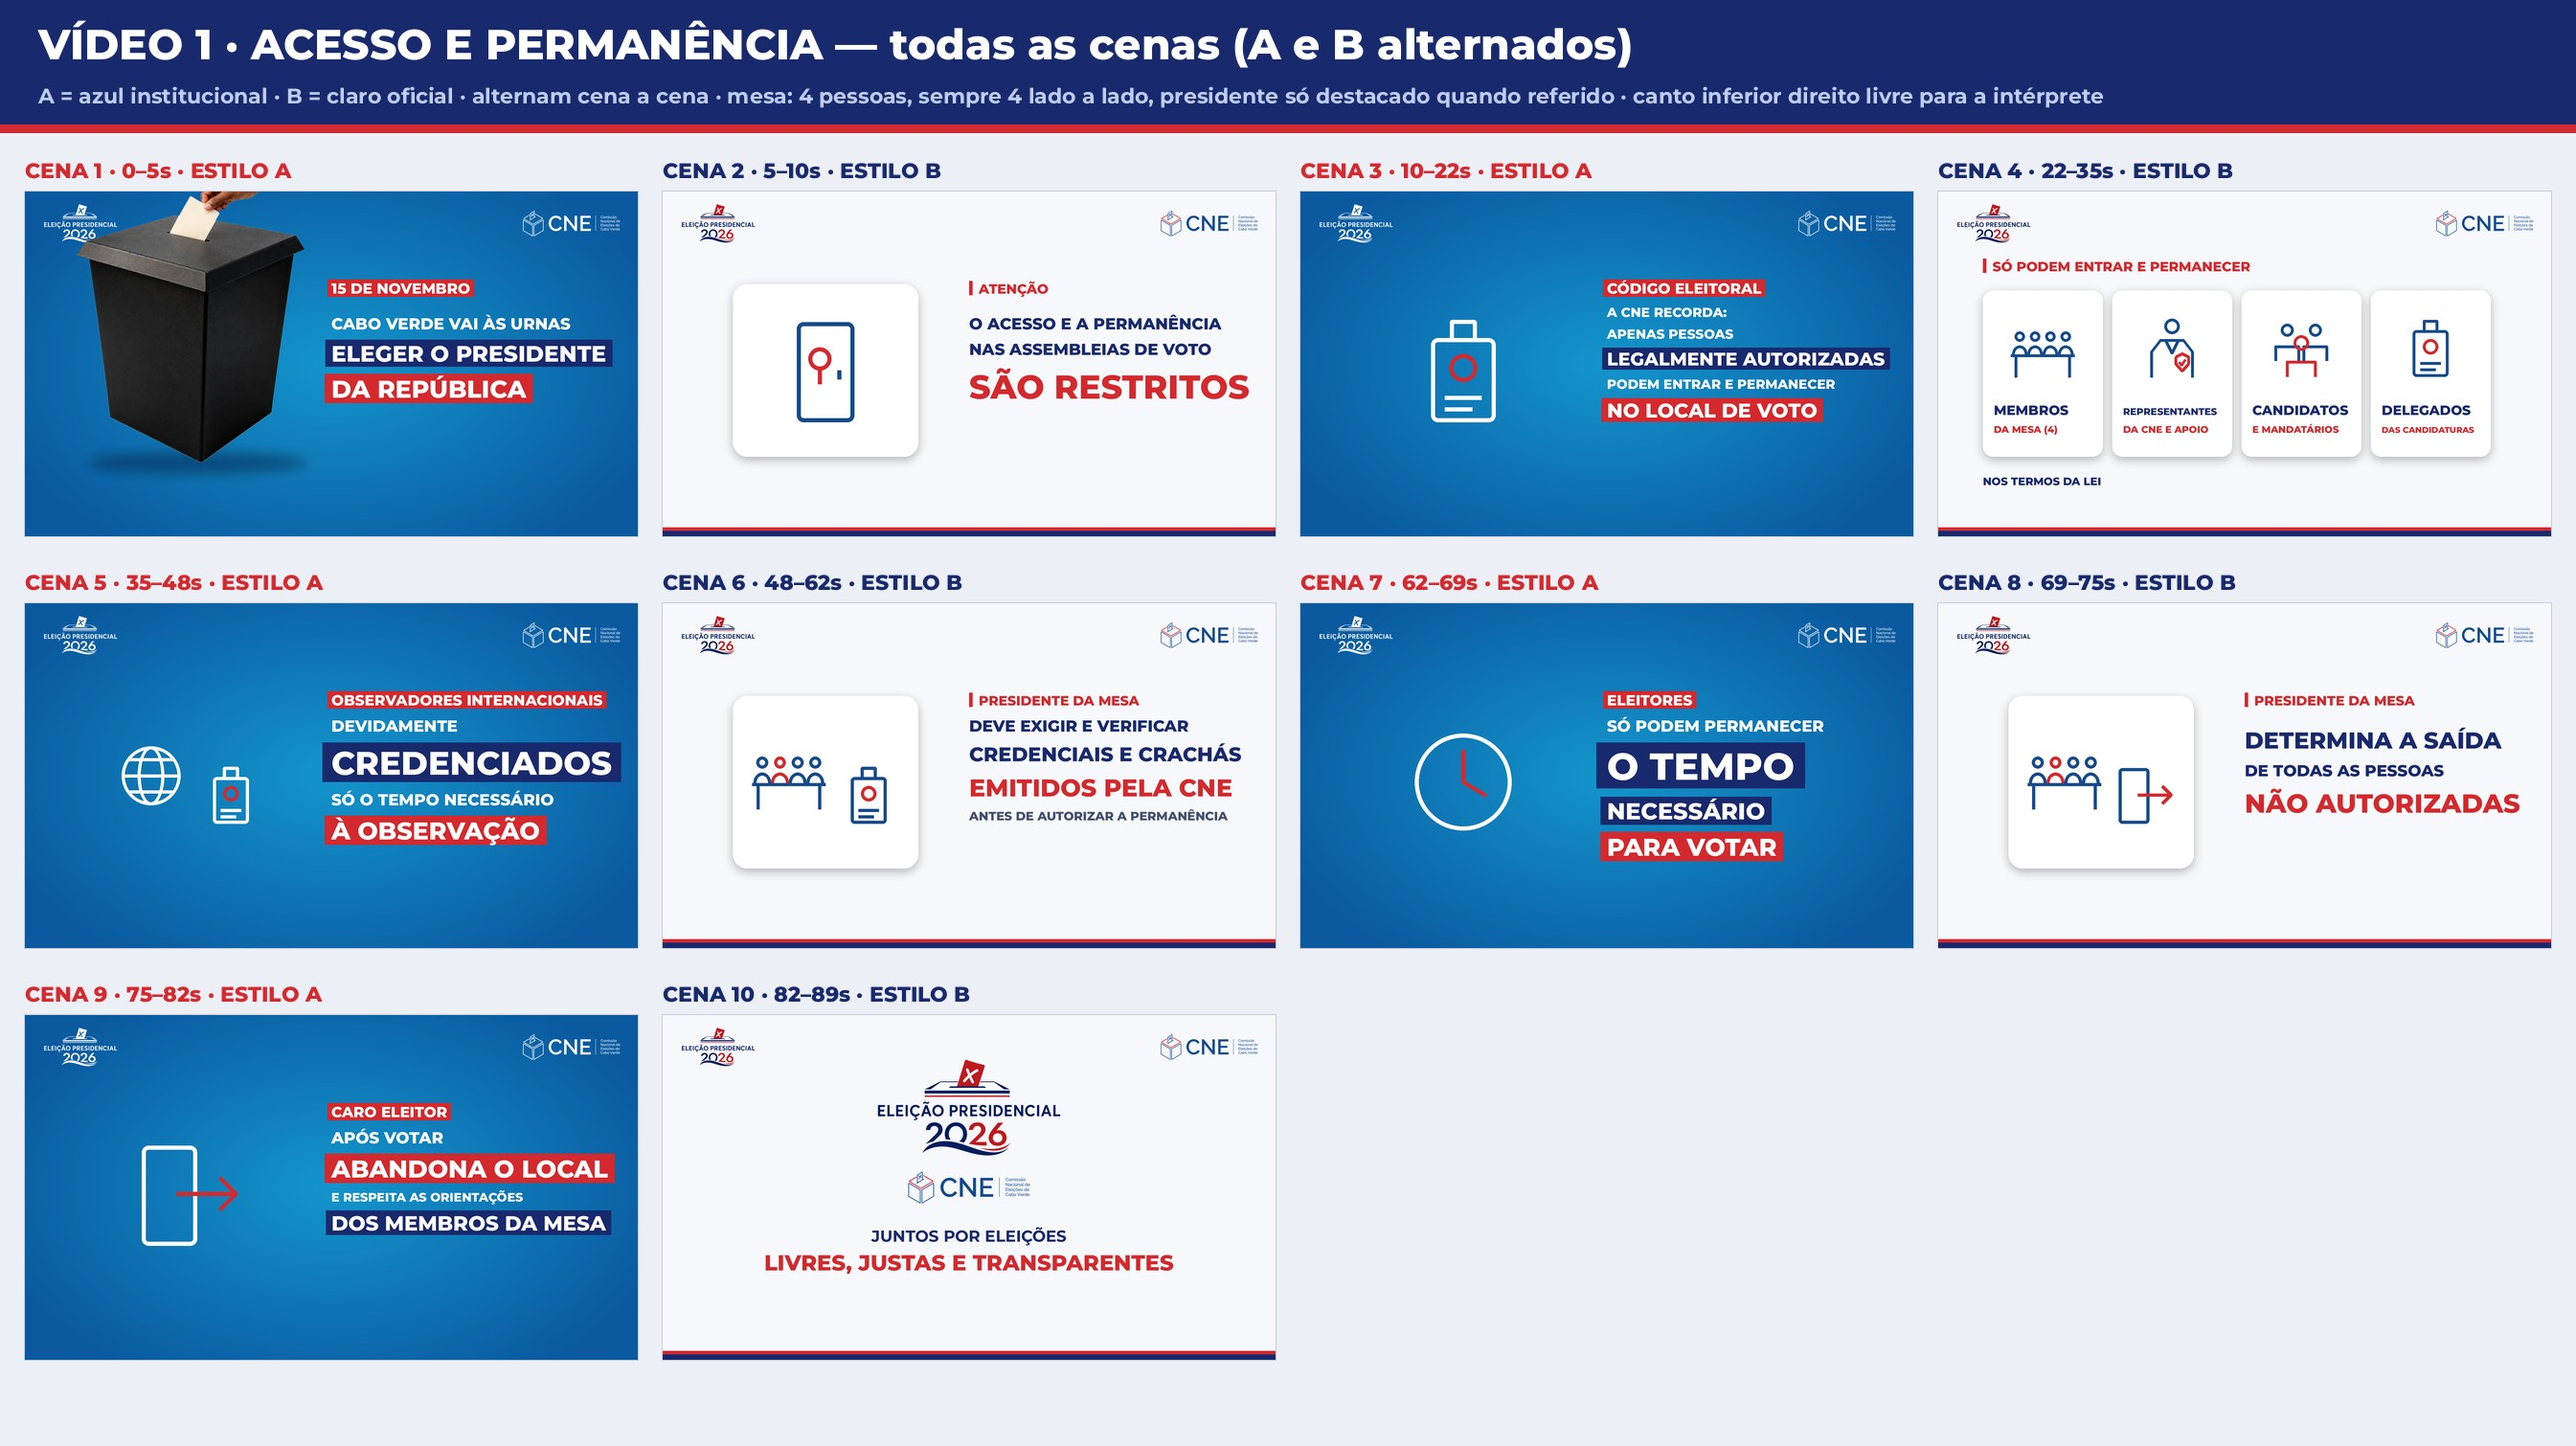
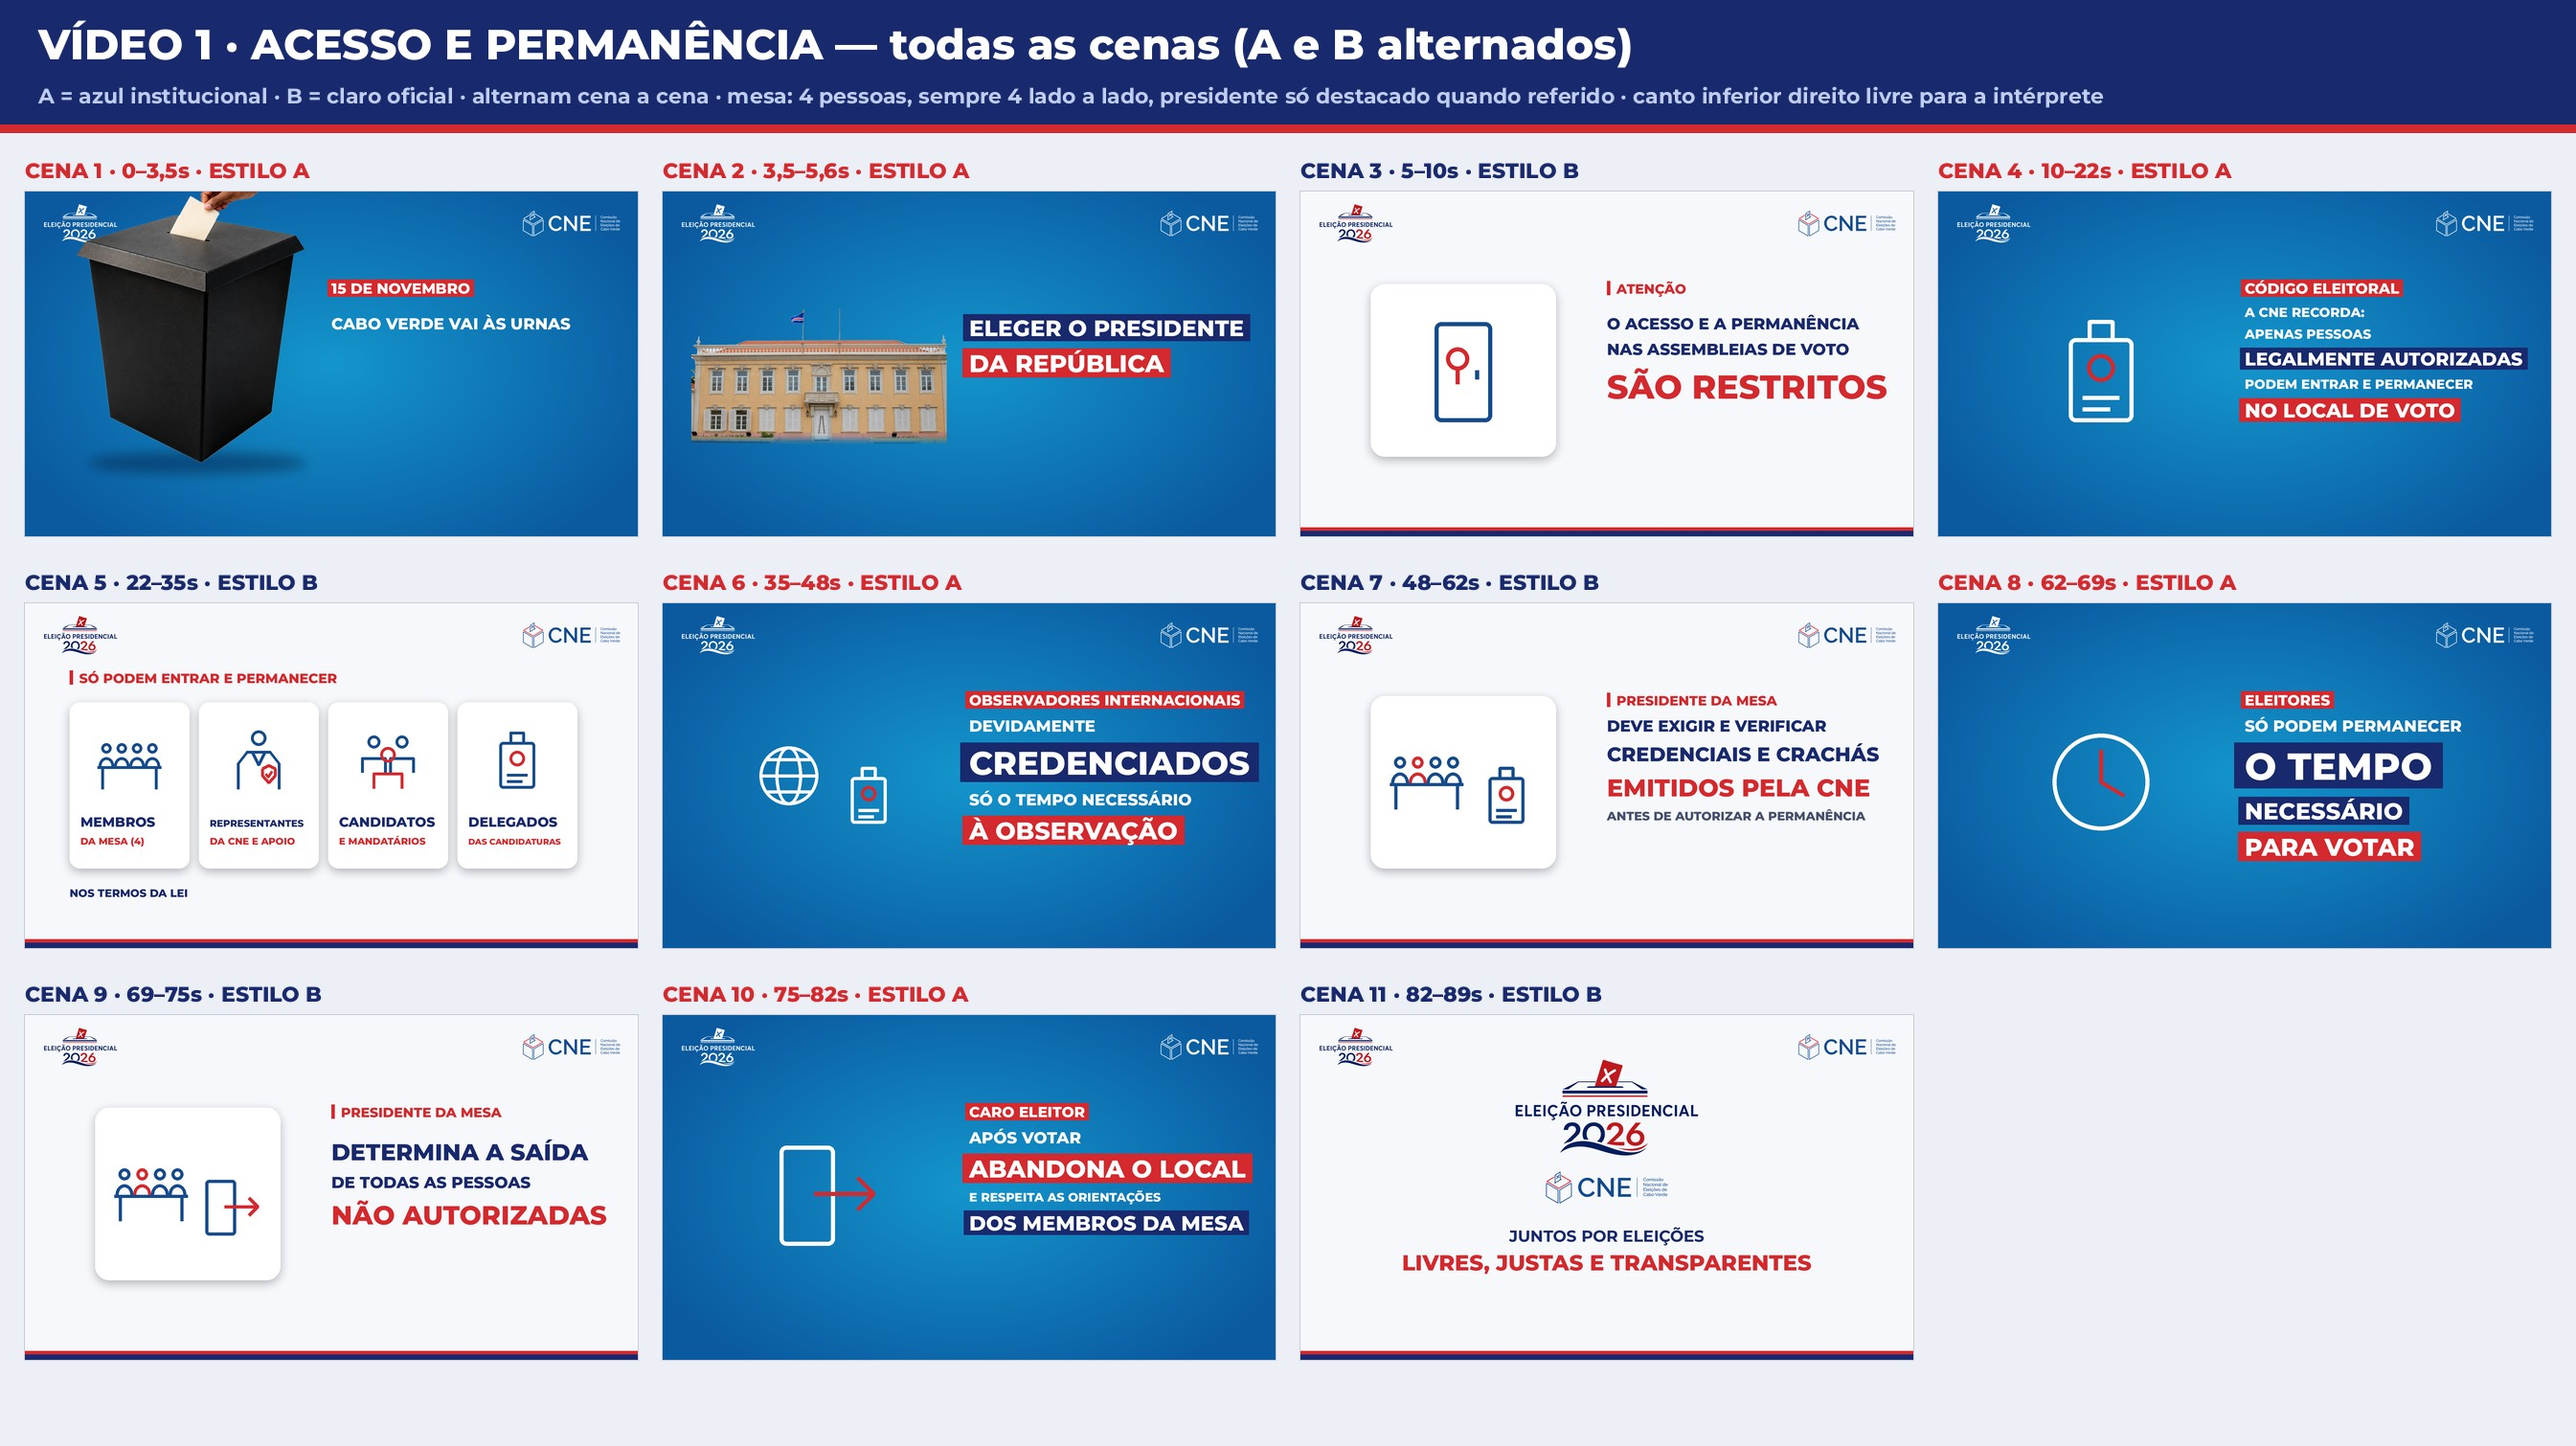
Cena 1 dividida: urna (Cabo Verde vai às urnas) + Palácio do Plateau (eleger o Presidente)
Claude-Session: https://claude.ai/code/session_01B7qCVcC1uXVL2xuSSAUW2M

diff --git a/comunicado_regras/novos_src/bp_v1all.py b/comunicado_regras/novos_src/bp_v1all.py
@@ -32,7 +32,8 @@ def icon(b,kind,cx,cy,s,col,acc=RED,w=None):
         ln((4,74),(4,74)); return
     _icon(b,kind,cx,cy,s,col,acc,w)
 S=[ # (estilo, t, ícones, kicker, linhas[(texto,papel)])
- ('A','0–5s',['FOTO'],'15 DE NOVEMBRO',[('CABO VERDE VAI ÀS URNAS','n'),('ELEGER O PRESIDENTE','b'),('DA REPÚBLICA','r')]),
+ ('A','0–3,5s',['FOTO'],'15 DE NOVEMBRO',[('CABO VERDE VAI ÀS URNAS','n')]),
+ ('A','3,5–5,6s',['PALACIO'],None,[('ELEGER O PRESIDENTE','b'),('DA REPÚBLICA','r')]),
  ('B','5–10s',['porta'],'ATENÇÃO',[('O ACESSO E A PERMANÊNCIA','n'),('NAS ASSEMBLEIAS DE VOTO','n'),('SÃO RESTRITOS','h')]),
  ('A','10–22s',['cracha'],'CÓDIGO ELEITORAL',[('A CNE RECORDA:','n'),('APENAS PESSOAS','n'),('LEGALMENTE AUTORIZADAS','b'),('PODEM ENTRAR E PERMANECER','n'),('NO LOCAL DE VOTO','r')]),
  ('B','22–35s','LISTA','SÓ PODEM ENTRAR E PERMANECER',None),
@@ -79,12 +80,15 @@ def scene(sc):
         sh=Image.new('RGBA',b.size,(0,0,0,0)); ImageDraw.Draw(sh).ellipse((200,820,880,880),fill=(0,20,60,110)); b.alpha_composite(sh.filter(ImageFilter.GaussianBlur(18)))
         b.alpha_composite(ph,(540-ph.width//2,-70))  # braço sai pelo topo do ecrã
         ics=[]
+    if ics==['PALACIO']:   # Palácio do Plateau sem céu, base esbatida
+        ph=Image.open(HERE+'/logos/palacio.png').convert('RGBA'); ww=800; ph=ph.resize((ww,int(ph.height*ww/ph.width)),Image.LANCZOS)
+        b.alpha_composite(ph,(90,560-ph.height//2+20)); ics=[]
     if st=='B': card(b,(220,290,800,830),WHITE,44)
     if not ics: pass
     elif len(ics)==1: icon(b,ics[0],510,560,360,ci,RED,w=13)
     else:
         icon(b,ics[0],395,540,230 if ics[0]!='mesa4' else 230,ci,RED,w=10); icon(b,ics[1],645,600,200,ci,RED,w=10)
-    kicker(b,st,960,320,kick)
+    if kick: kicker(b,st,960,320,kick)
     textblock(b,st,960,350 if len(lines)>=4 else 380,lines,mw=880)
     return b
 tw,th=640,360; gap=26; top=200; cols=4; rows=3
